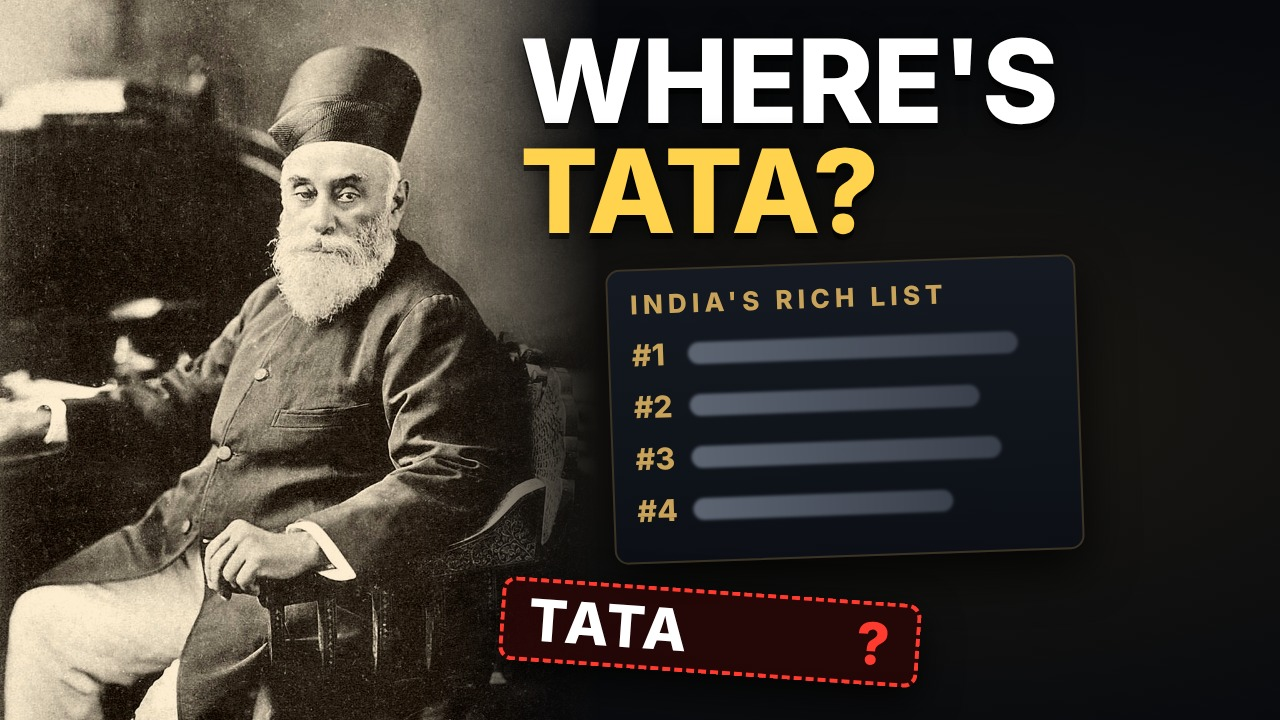
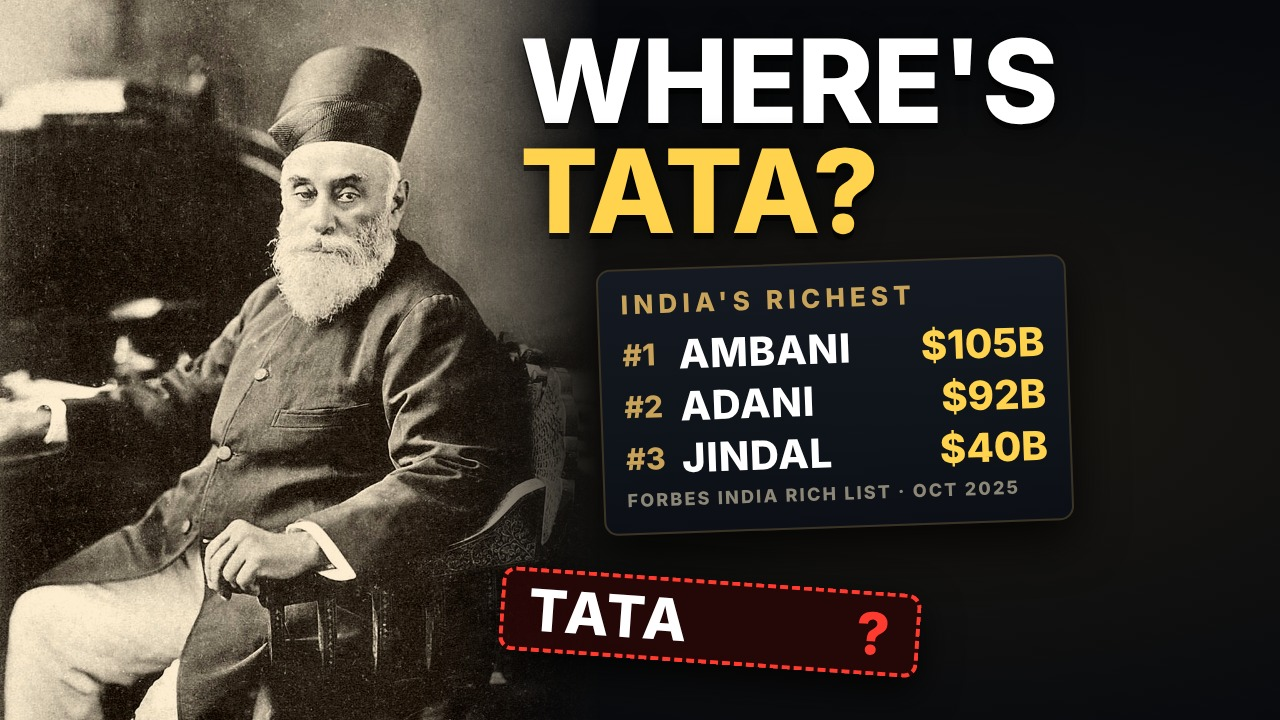
Tata thumbnail: show the real Forbes India Rich List top 3, sourced
Claude-Session: https://claude.ai/code/session_019NnLenvYctdnABomUpPRHT

Changed region(s): [[0.4688, 0.3972, 0.8438, 0.7639], [0.375, 0.7639, 0.7188, 0.9778], [0.8125, 0.3667, 0.8438, 0.4278]]

diff --git a/films/tata-history/youtube/thumb/richlist.html b/films/tata-history/youtube/thumb/richlist.html
@@ -1,21 +1,21 @@
 <html><head><link rel=stylesheet href=style.css><style>
-.card{position:absolute;left:610px;top:262px;width:470px;padding:18px 22px 22px;background:linear-gradient(180deg,#151a22,#0c1016);border:2px solid #3a3326;border-radius:14px;box-shadow:0 18px 50px rgba(0,0,0,.8);transform:rotate(-2deg)}
+.card{position:absolute;left:600px;top:262px;width:470px;padding:18px 22px 22px;background:linear-gradient(180deg,#151a22,#0c1016);border:2px solid #3a3326;border-radius:14px;box-shadow:0 18px 50px rgba(0,0,0,.8);transform:rotate(-2deg)}
 .hd{font-weight:800;font-size:26px;letter-spacing:.2em;color:#c9a35a;margin-bottom:12px}
 .row{display:flex;align-items:center;height:46px;margin:6px 0}
 .n{font-weight:800;font-size:30px;color:#c9a35a;width:56px}
-.bar{height:22px;border-radius:11px;background:linear-gradient(90deg,#5d6573,#3b414c);filter:blur(1.5px)}
-.out{position:absolute;left:500px;top:590px;width:420px;height:84px;border:4px dashed #ff3b30;border-radius:14px;background:rgba(40,6,6,.85);transform:rotate(4deg);display:flex;align-items:center;padding-left:24px;box-shadow:0 14px 40px rgba(0,0,0,.8)}
+.nm{font-weight:800;font-size:40px;color:#fff;letter-spacing:.02em}.v{font-weight:800;font-size:40px;color:#ffd34d;margin-left:auto}.src{font-weight:800;font-size:18px;letter-spacing:.12em;color:#8d8778;margin-top:8px}
+.out{position:absolute;left:500px;top:580px;width:420px;height:84px;border:4px dashed #ff3b30;border-radius:14px;background:rgba(40,6,6,.85);transform:rotate(4deg);display:flex;align-items:center;padding-left:24px;box-shadow:0 14px 40px rgba(0,0,0,.8)}
 .out span{font-weight:800;font-size:58px;color:#fff;letter-spacing:.04em}
 .out b{font-weight:800;font-size:58px;color:#ff3b30;margin-left:auto;margin-right:26px}
 </style></head><body>
 <div class=img style="left:0;top:0;width:1280px;height:720px;background:radial-gradient(ellipse at 70% 55%,#1d1a14 0,#07090d 70%)"></div>
 <div class=img style="left:0;top:0;width:600px;height:720px;background-image:url(jamsetji.jpg);background-position:50% 12%;filter:contrast(1.08);-webkit-mask-image:linear-gradient(270deg,transparent 0,#000 30%)"></div>
 <div class=words style="left:520px;top:26px;font-size:116px">WHERE'S <span class=y>TATA?</span></div>
-<div class=card><div class=hd>INDIA'S RICH LIST</div>
-<div class=row><div class=n>#1</div><div class=bar style="width:330px"></div></div>
-<div class=row><div class=n>#2</div><div class=bar style="width:290px"></div></div>
-<div class=row><div class=n>#3</div><div class=bar style="width:310px"></div></div>
-<div class=row><div class=n>#4</div><div class=bar style="width:260px"></div></div>
+<div class=card><div class=hd>INDIA'S RICHEST</div>
+<div class=row><div class=n>#1</div><div class=nm>AMBANI</div><div class=v>$105B</div></div>
+<div class=row><div class=n>#2</div><div class=nm>ADANI</div><div class=v>$92B</div></div>
+<div class=row><div class=n>#3</div><div class=nm>JINDAL</div><div class=v>$40B</div></div>
+<div class=src>FORBES INDIA RICH LIST · OCT 2025</div>
 </div>
 <div class=out><span>TATA</span><b>?</b></div>
 </body></html>

diff --git a/films/tata-history/youtube/README.md b/films/tata-history/youtube/README.md
@@ -8,7 +8,7 @@ Channel: **Be Practical with Kishore**, playlist **Built on Bharat** (episode 1)
 Why No Tata Is on the Rich List (The 150-Year Story)
 ```
 Thumbnail for this title: `thumbnail_rich_list.jpg` (WHERE'S TATA?: Jamsetji Tata beside an unnamed rich list with
-Tata outside it; no real names or figures on the list). Superseded title, kept for reference:
+Tata outside it. List: Forbes India Rich List, Oct 2025 (#1 Ambani $105B, #2 Adani $92B, #3 Jindal $40B; claims.csv TH1). Superseded title, kept for reference:
 ```
 The Entire History of Tata (and the Diamond That Saved It) | Be Practical With Kishore
 ```
